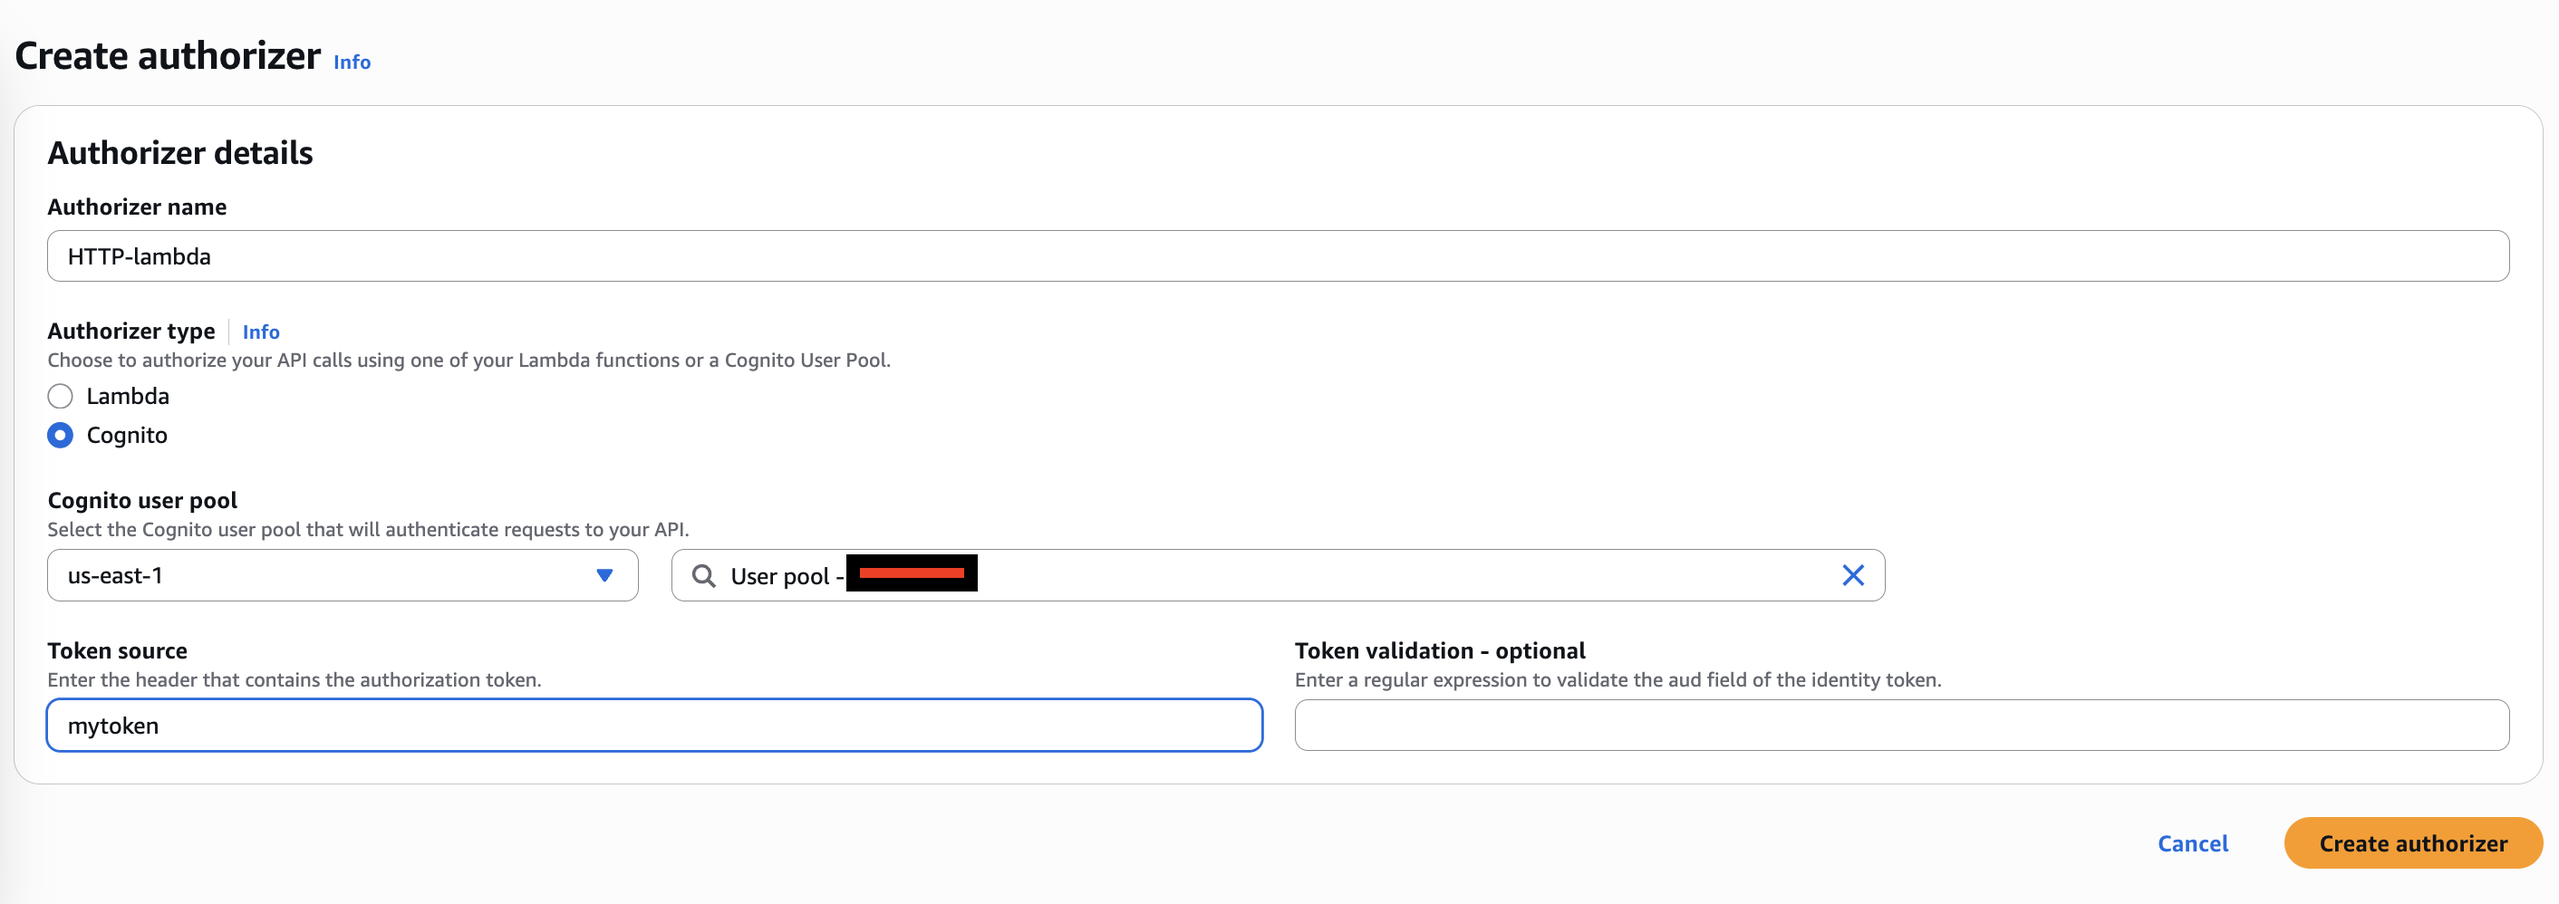
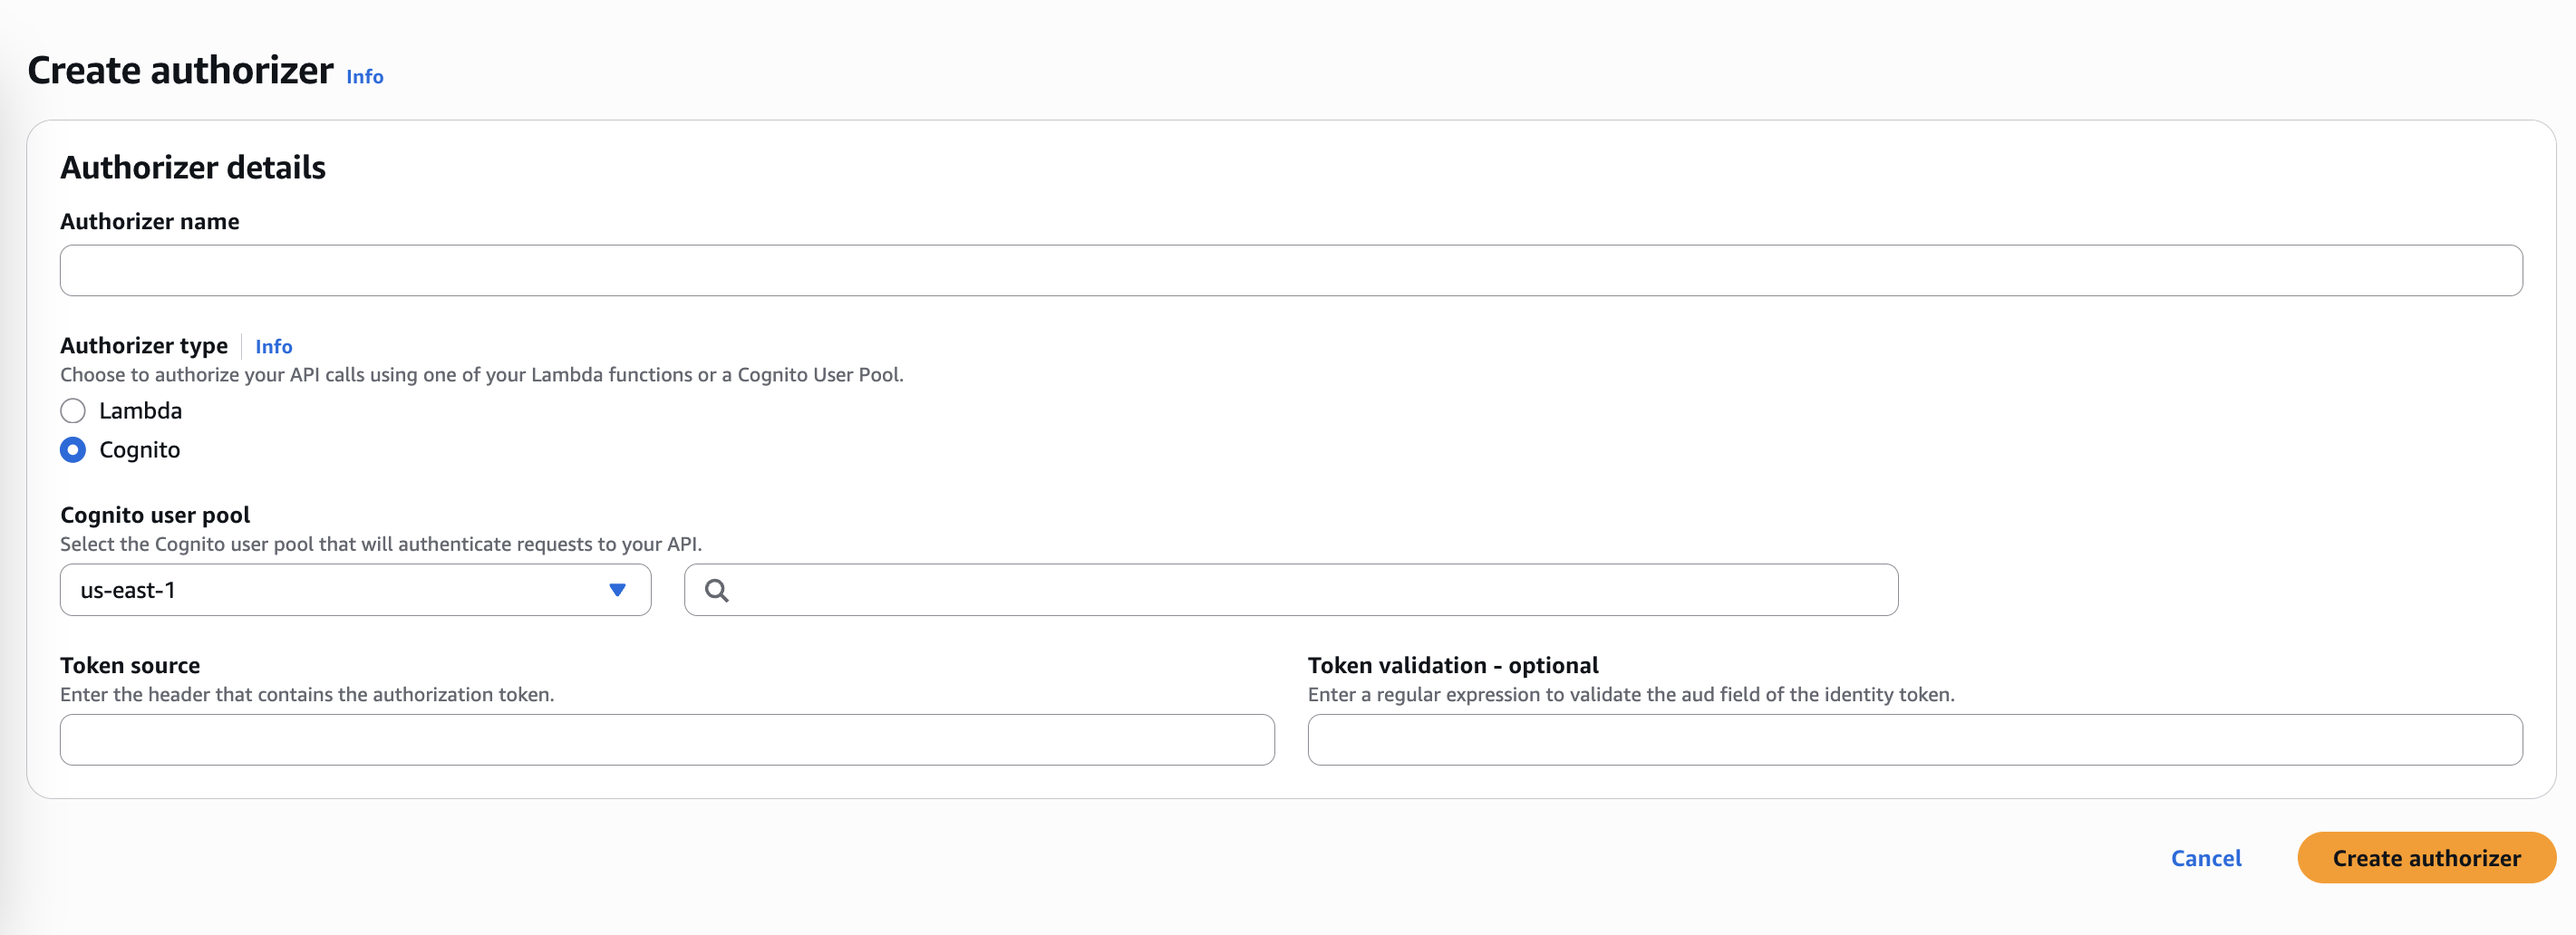
Updated readme file

diff --git a/README.md b/README.md
@@ -231,4 +231,89 @@ In this step, you deploy the API that you created to a stage called prod.
 
    ![Diagram 15](images/post_man_execution.png) 
 
-   
+3. To validate that the item is indeed inserted into DynamoDB table, go to Dynamo console, select "lambda-apigateway" table, select "Explore table items" button from top right, and the newly inserted item should be displayed.
+
+![Diagram 16](images/DB_with_data.png) 
+
+4. To get all the inserted items from the table, we can use the "list" operation of Lambda using the same API. Pass the following JSON to the API, and it will return all the items from the Dynamo table
+
+```json
+{
+    "operation": "list",
+    "tableName": "lambda-apigateway",
+    "payload": {
+    }
+}
+```
+We have successfully created a serverless API using API Gateway, Lambda, and DynamoDB!. 
+
+Now to match with real world example, let us secure the API Gateway using Amazon Cognito
+
+# **Architecture of Serverless CRUD function with Cognito** 
+
+![Diagram 17](images/APIGW_Cognito.png) 
+
+# **Set-up Amazon Cognito**
+
+1. Create user pool as given in the screen shot below.
+
+![Diagram 18](images/User_pool%20creation.png) 
+
+Final user pool will look like below
+
+![Diagram 19](images/User_pool.png) 
+
+2. Along with User pool, App client will be created using the name you selected for your application
+
+![Diagram 20](images/App_client.png) 
+
+3. Create a user for the cognito pool
+
+![Diagram 21](images/User_creation.png) 
+
+
+# **Authorizer in APIGW**
+
+1. Set-up authorizer
+
+![Diagram 22](images/Add_Authorizer.png) 
+
+2. Completed Authorizer
+
+![Diagram 23](images/Authorizer.png) 
+
+3. Test the authorizer using the above screen shot, select the authorizer, click edit and once saved, you will get a screen to test the token obtained from amazon cognto
+
+![Diagram 24](images/Authorizer_test.png) 
+
+Once you obtain successful response from Authorizer, attach the authorizer to APIGW
+
+# **Attach Authorizer to APIGW**
+
+1. Go to the resource under APIGW, select POST
+2. Under post, click method request and edit the Method request settings and add the authorizer, we created above (http-auth)
+
+![Diagram 25](images/APIGW_Auth.png)
+
+3. After completing the step 2, deploy the app using the stage (PROD) created earlier
+
+4. Now our APIGW is ready with amazon cognito, get the invoke url as given below
+
+![Diagram 26](images/invoke_url.png)
+
+# **Test the API using Postman**
+
+1. Using the invoke URL from step 4 above, test the API using postman
+2. First test without provividing the token and you should see unauthorized access error
+
+![Diagram 27](images/Postman%20without%20token.png)
+
+3. Now let us select the token checkbox, please note, you need provide the same name you have provided under Authorizer for token here
+
+![Diagram 28](images/Postman%20with%20token.png)
+
+
+
+
+
+
